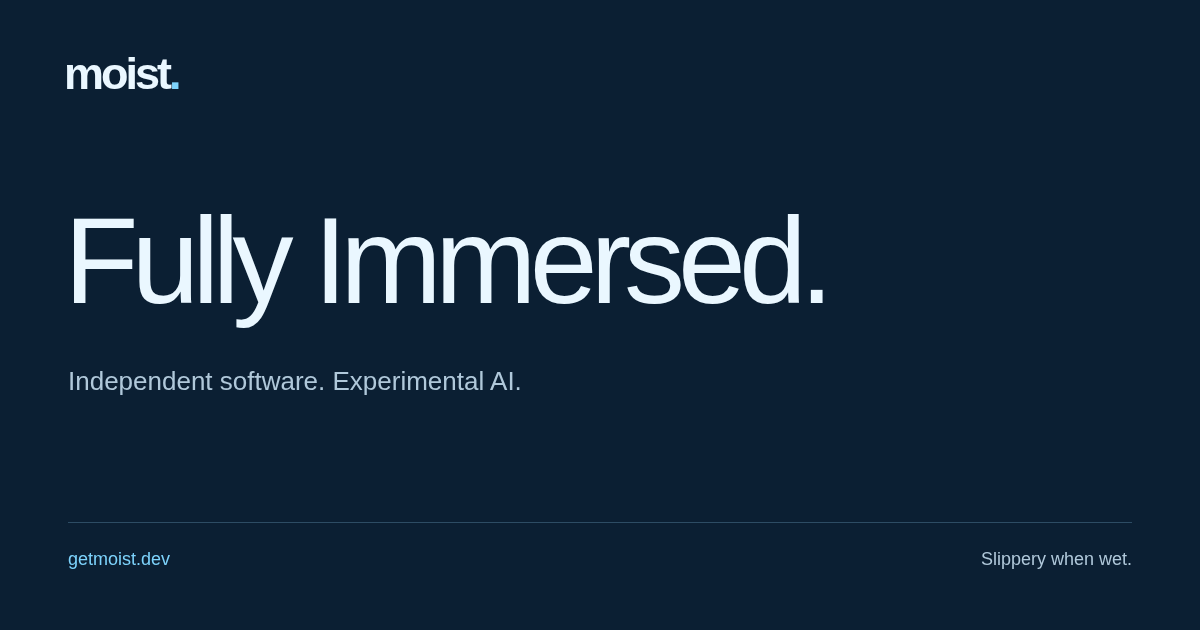
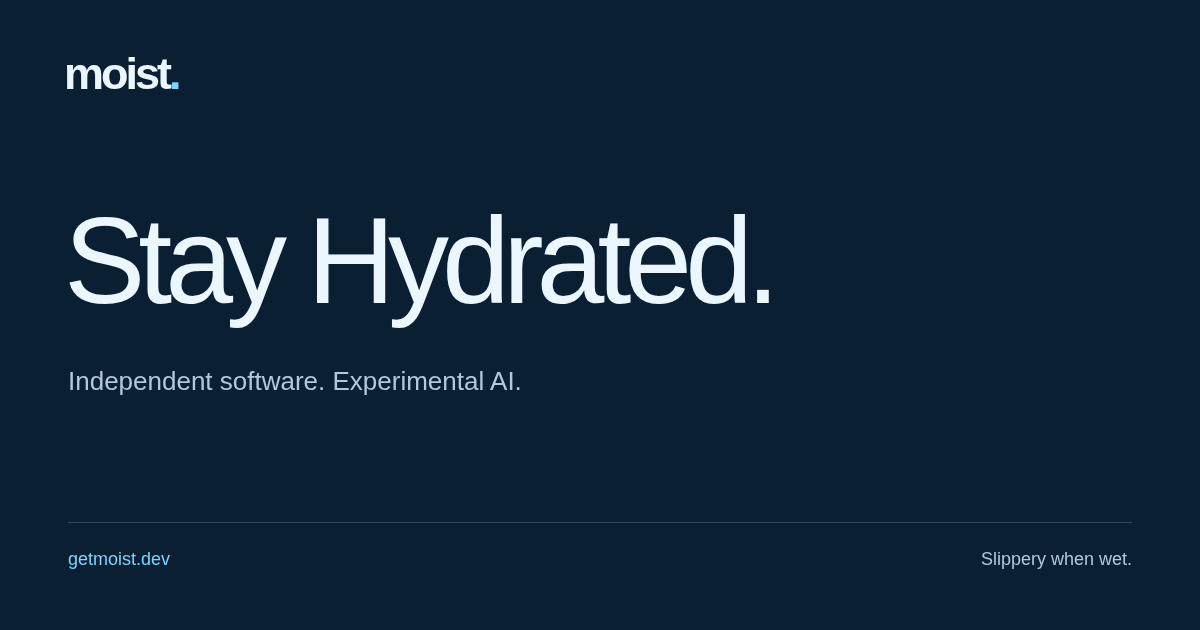
Use Stay Hydrated as the fixed Moist tagline

Changed region(s): [[0.0617, 0.3317, 0.7092, 0.5429]]

diff --git a/templates/index.html b/templates/index.html
@@ -4,15 +4,7 @@
 <section class="hero" aria-labelledby="hero-heading">
   <img class="hero-art" src="/assets/surf-hero.webp" srcset="/assets/surf-hero-small.webp 800w, /assets/surf-hero.webp 1600w" sizes="100vw" width="1600" height="1067" alt="" fetchpriority="high" />
   <div class="wrap hero-inner"><div class="hero-copy">
-    <h1 id="hero-heading"><span>Fully</span><span>Immersed.</span></h1>
-    <script>
-      // Choose once while parsing, before the rest of the hero renders.
-      if (Math.random() >= 0.5) {
-        const lines = document.querySelectorAll("#hero-heading > span");
-        lines[0].textContent = "Stay";
-        lines[1].textContent = "Hydrated.";
-      }
-    </script>
+    <h1 id="hero-heading"><span>Stay</span><span>Hydrated.</span></h1>
     <p class="intro">Independent software, developer infrastructure, and experimental AI. Built with curiosity. Engineered with purpose.</p>
     <div class="hero-links"><a class="button" href="/work/">Explore our work <span aria-hidden="true">→</span></a><a class="button secondary" href="https://github.com/ducks">GitHub <span aria-hidden="true">↗</span></a></div>
   </div></div>

diff --git a/templates/base.html b/templates/base.html
@@ -25,7 +25,7 @@
 <meta property="og:url" content="{{ canonical }}" />
 <meta property="og:image" content="{{ get_url(path='assets/social.png') }}" />
 <meta property="og:image:width" content="1200" /><meta property="og:image:height" content="630" />
-<meta property="og:image:alt" content="Moist. Fully Immersed. Independent software and experimental AI." />
+<meta property="og:image:alt" content="Moist. Stay Hydrated. Independent software and experimental AI." />
 <meta name="twitter:card" content="summary_large_image" />
 {% block extra_head %}{% endblock extra_head %}
 <link rel="icon" href="/assets/favicon.svg" type="image/svg+xml" />

diff --git a/docs/validation.md b/docs/validation.md
@@ -8,7 +8,7 @@ Validated production output on a loopback HTTP server, not a public deployment.
   and draft exclusion.
 - Thirty Chromium browser tests pass: all three pages at 320, 390, 768 and
   1440px, plus a no-JavaScript navigation/reload/back/404 test, six dark-theme
-  page/viewport tests, keyboard preference persistence, blocked-storage fallback, project/tag navigation without JavaScript, and both random taglines with stable two-line layout.
+  page/viewport tests, keyboard preference persistence, blocked-storage fallback, project/tag navigation without JavaScript, and the fixed tagline and matching metadata at mobile and desktop sizes.
 - Axe WCAG A/AA checks report zero violations at each tested page/width.
 - Screenshots in ignored `artifacts/` cover every page at every tested width.
   Desktop and mobile screenshots were visually reviewed for typography, spacing,

diff --git a/README.md b/README.md
@@ -120,7 +120,5 @@ Do not imply experimental software is commercially available. Record sources in
 `docs/sources.md`. Research models remain unpublished. No RSS feed is generated
 for this catalog. Deployment uses GitHub Actions and GitHub Pages, not Woodpecker.
 
-The homepage chooses either “Fully Immersed.” or “Stay Hydrated.” once per page
-load. It does not animate, rotate on a timer, or store the choice. Without
-JavaScript, “Fully Immersed.” remains visible; metadata and social previews keep
-the original tagline.
+The homepage uses “Stay Hydrated.” as its fixed headline, including without
+JavaScript. Page metadata and the social preview use the same tagline.

diff --git a/content/_index.md b/content/_index.md
@@ -1,4 +1,4 @@
 +++
-title = "Moist - Fully Immersed."
+title = "Moist - Stay Hydrated."
 template = "index.html"
 +++
